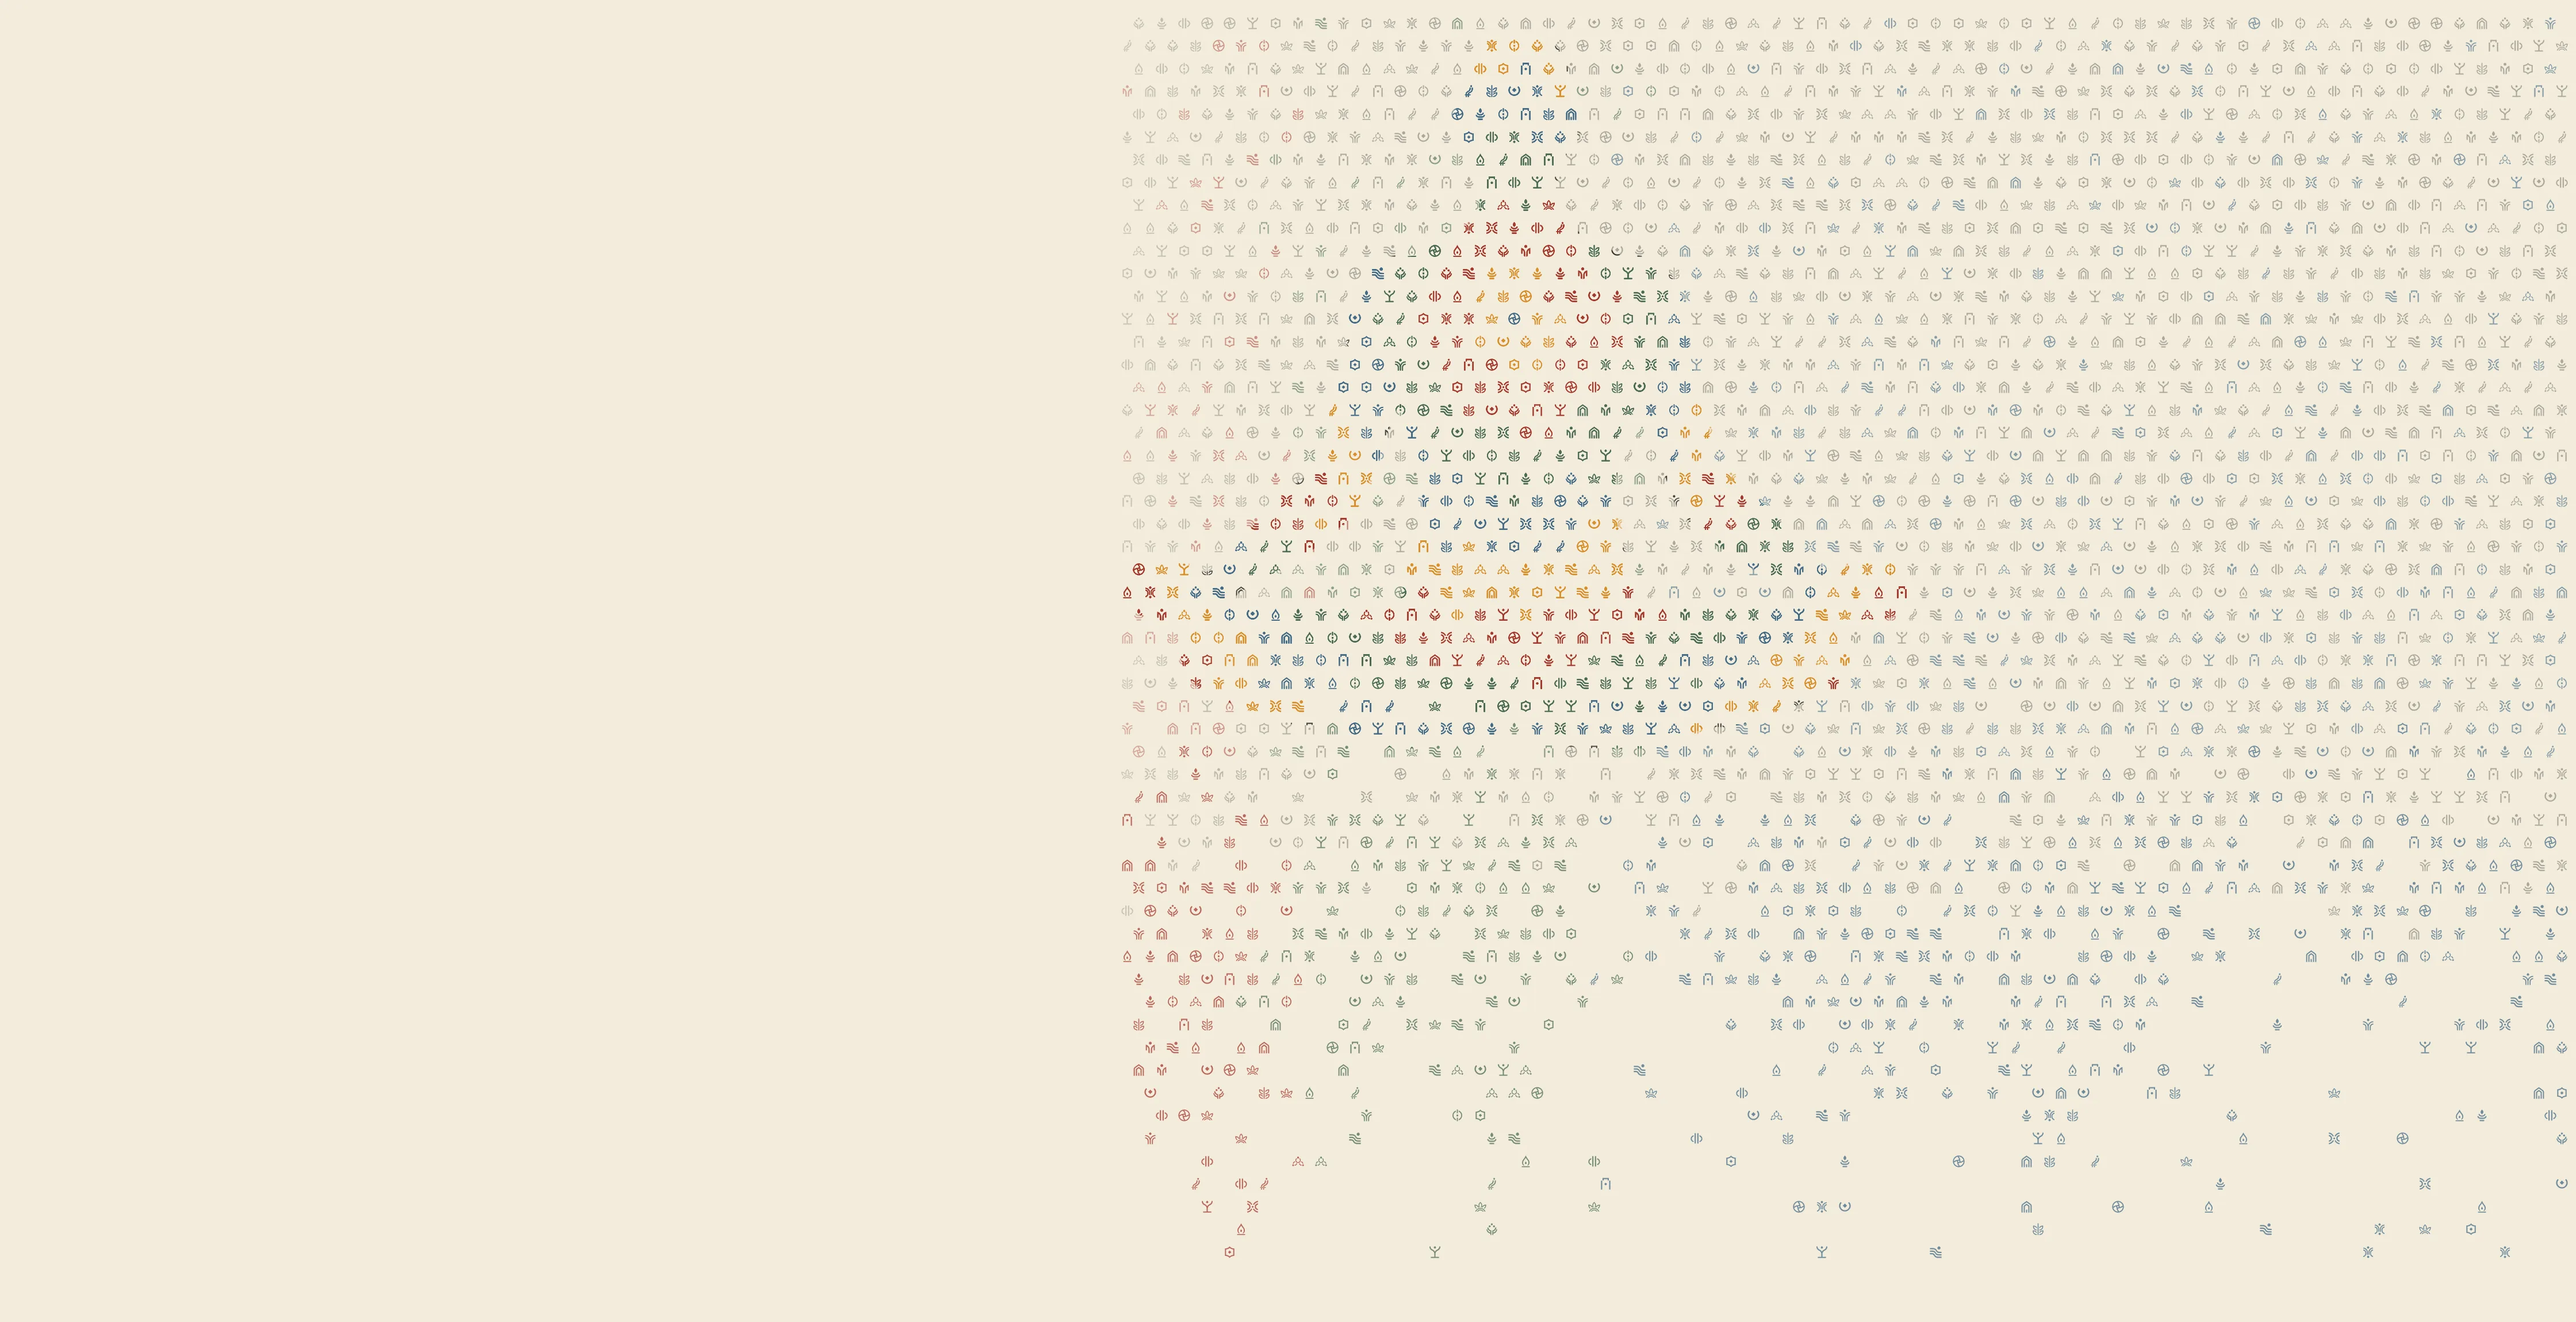
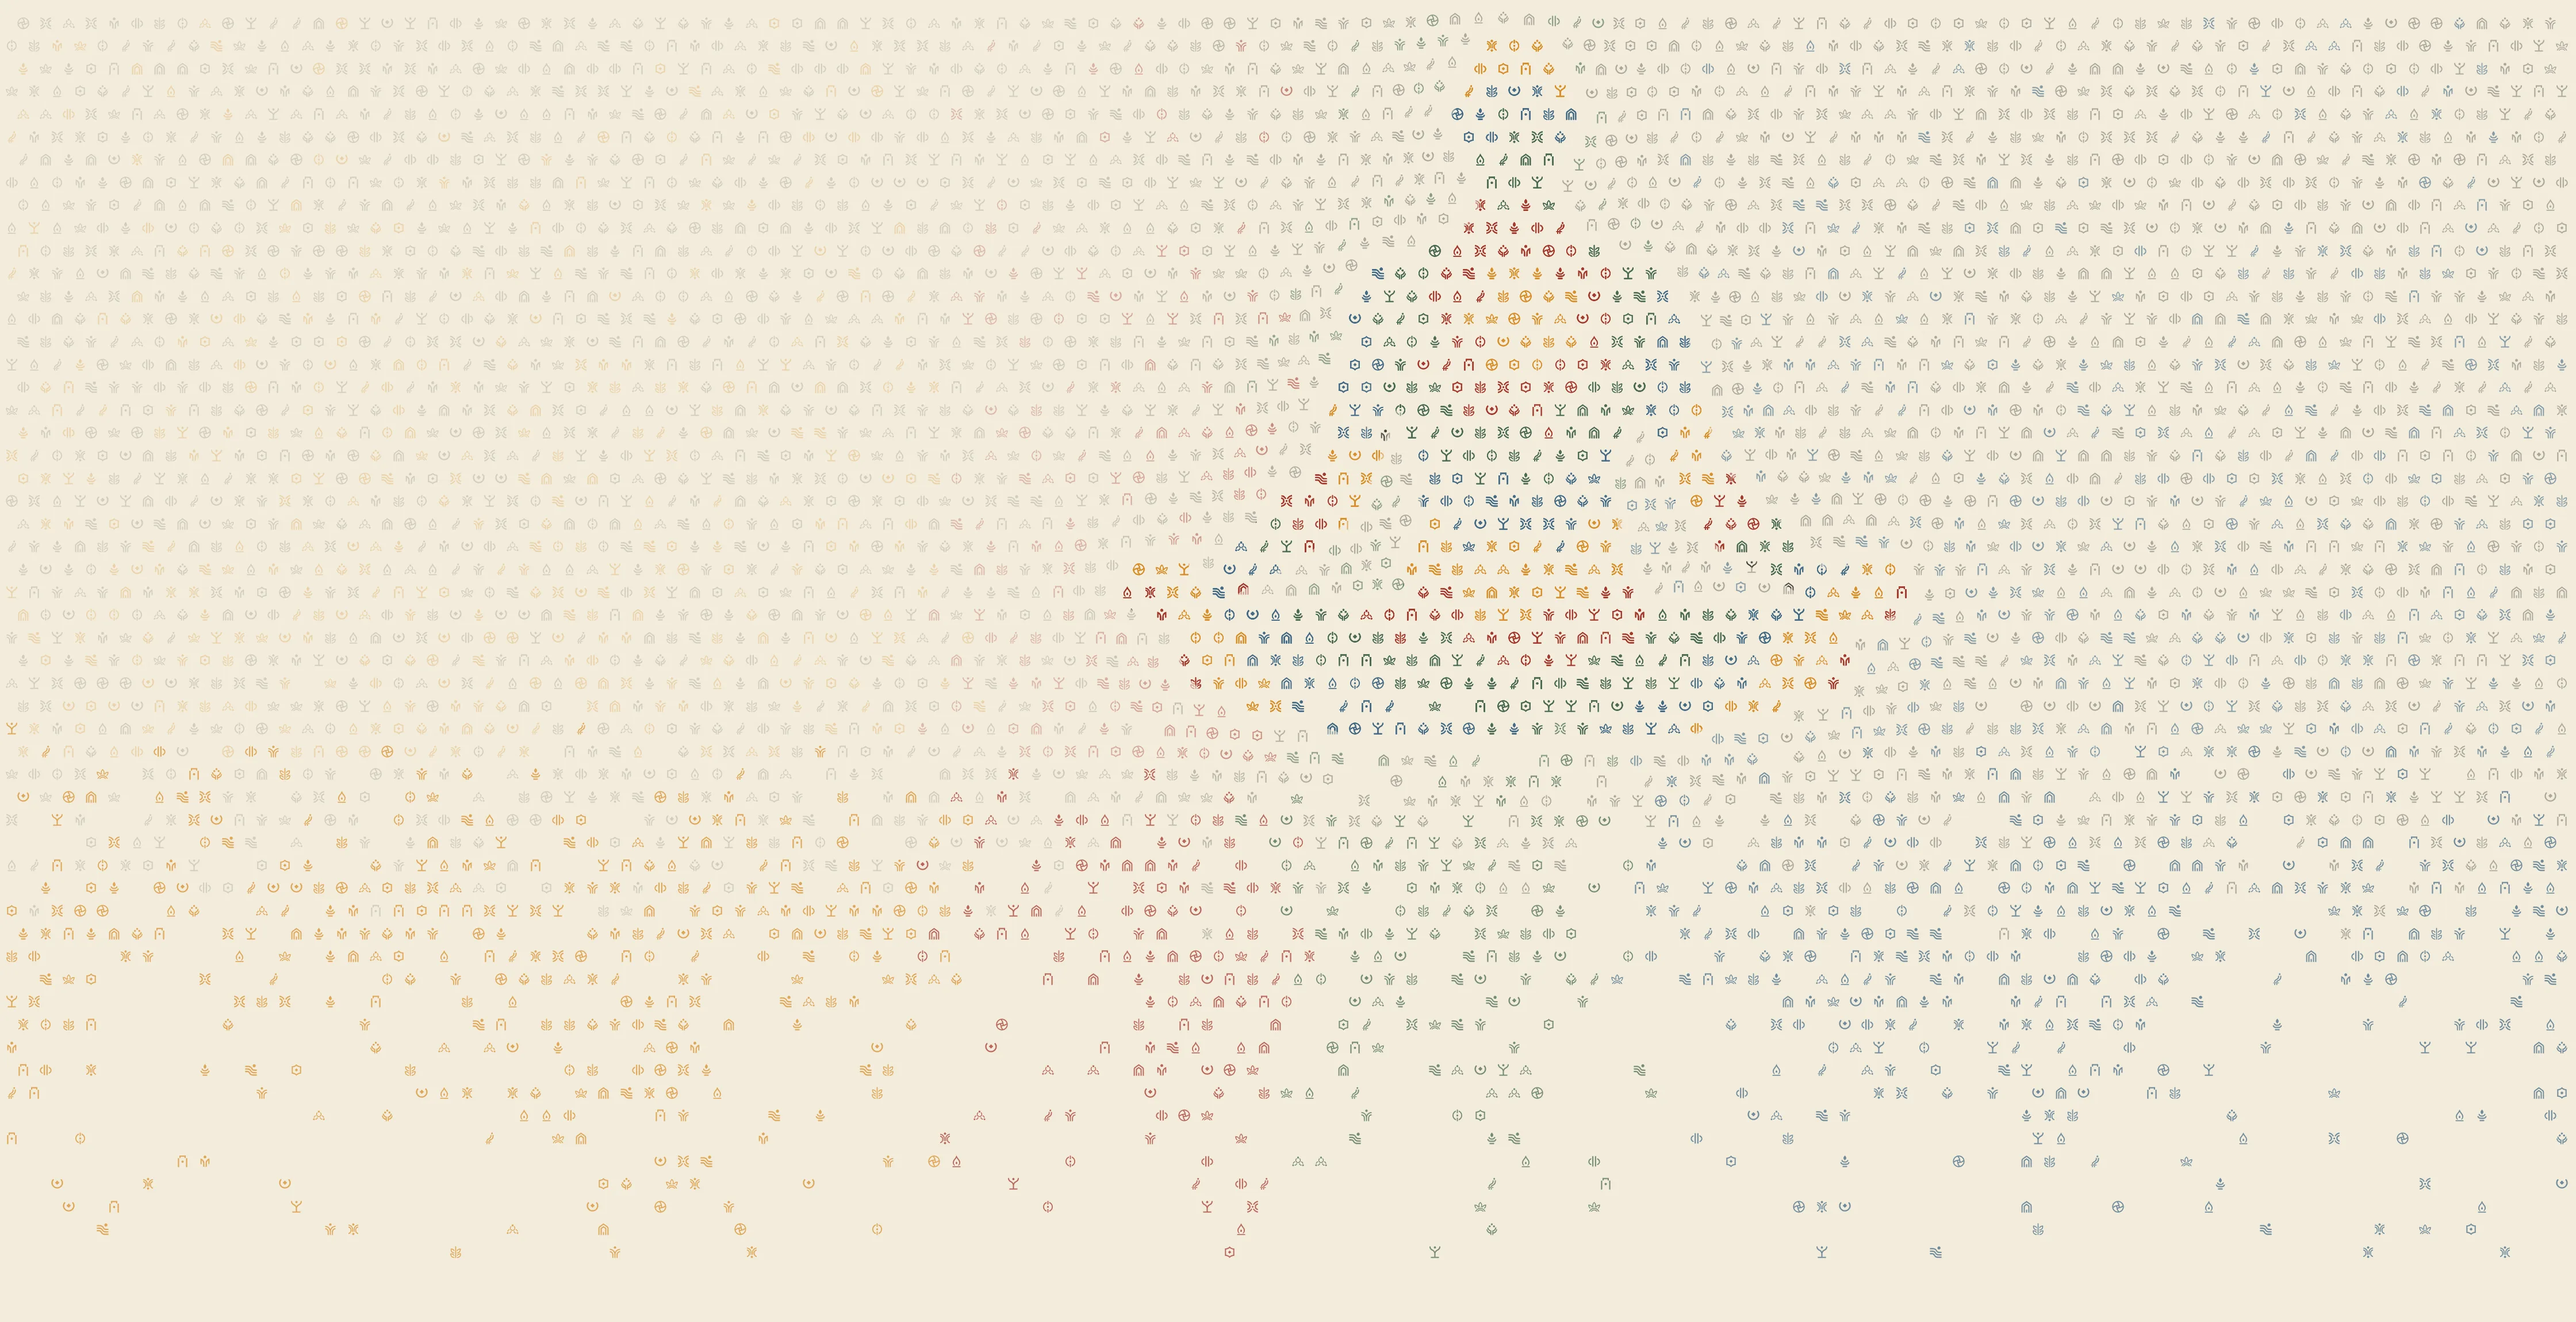
Hero: full glyph field, soft fades around the copy and into the next section, slight warp
Claude-Session: https://claude.ai/code/session_01Faxypstm6H8yAswypDCHBa

diff --git a/app/lanes-home.css b/app/lanes-home.css
@@ -248,3 +248,13 @@
 :root .field-guide .ln-card.ln-card-paid{padding-left:144px;padding-right:44px}
 .field-guide .ln-card-side{position:absolute;top:0;bottom:0;left:44px;right:auto;width:54px;background:url('/brand/home/card-key-column-worn.png') center -40px/54px auto repeat-y;pointer-events:none}
 @media(max-width:900px){:root .field-guide .ln-card.ln-card-paid{padding-left:64px;padding-right:20px}.field-guide .ln-card-side{left:16px;width:30px;background-size:30px auto;background-position:center -22px}}
+
+/* Hero fades (Dat, Nov 15). Desktop only; on phones the field already sits below the copy and fades out.
+   - Copy: a feathered bone panel behind "LIVE IN PRACTICE", the lede and the button, one even blur all round, so the
+     field fades out around the whole block. It is drawn in stage units with the copy, so it fits at every width.
+   - Bottom: the field fades out from just below the figure into the "Realization as a fitness" section. */
+@media(min-width:901px){
+  .field-guide .ln-copy{z-index:2}
+  .field-guide .ln-copy::before{content:"";position:absolute;z-index:-1;top:calc(-44 * var(--u));bottom:calc(-52 * var(--u));left:calc(-400 * var(--u));right:calc(-48 * var(--u));background:var(--bone);filter:blur(calc(34 * var(--u)));pointer-events:none}
+  .field-guide .ln-art .ln-field{-webkit-mask-image:linear-gradient(#000 60%,transparent 97%);mask-image:linear-gradient(#000 60%,transparent 97%)}
+}

diff --git a/scripts/hero-glyph-field.py b/scripts/hero-glyph-field.py
@@ -35,9 +35,11 @@ RAIN_ALPHA=0.75           # opacity of the falling coloured glyphs
 RING=41                   # width of each colour ring around the heart
 CROWN=96                  # no clay within this many units of the top of the head
 SEED=7
-# Clear side (Nov 15): no field glyphs left of a straight vertical line through the figure's leftmost point (the tip
-# of its knee, x 495), from the top of the field to the bottom. (x0, y0, x1, y1 in the image's stage units.)
-COPY_CLEAR=(-480,0,495,HU)
+# Warp (Nov 15): the field bends slightly around the figure. Only field glyphs move; the figure's own glyphs stay put,
+# so its shape is exact. Near the outline they are pushed outward with a small twist.
+WARP_SIGMA=34             # how far from the outline the bend reaches (units)
+WARP=8                    # largest push (units)
+WARP_TWIST=0.5            # share of the push turned along the outline
 # ────────────────────────────────────────────────────────────────────────────────────────────────────────────
 
 DX=-XL
@@ -57,6 +59,13 @@ Tn=nd.gaussian_filter(Tf,4*S)/np.maximum(nd.gaussian_filter(W8,4*S),1e-3)
 Bf=0.22+0.78*np.clip(Tn,0,1)**0.9; d_in=nd.distance_transform_edt(Mf>0.5)/S; Bf=np.clip(Bf+0.2*np.exp(-(d_in/4.0)**2),0,1)
 gd=os.path.join(IN,'glyphs'); files=sorted(f for f in os.listdir(gd) if f.endswith('.svg'))
 n=P(GS); gl=[np.asarray(Image.open(io.BytesIO(cairosvg.svg2png(url=f'{gd}/{f}',output_width=n,output_height=n))).convert('RGBA'),np.float32)[...,3]/255 for f in files]
+# Warp field: the blurred figure mask's gradient points inward; outside the figure, glyphs move the other way.
+Dm=nd.gaussian_filter(M,WARP_SIGMA*S); gy,gx=np.gradient(Dm); gmax=np.hypot(gx,gy).max() or 1
+def warp(x,y):
+    i=min(max(P(y),0),H_-1); k=min(max(P(x+DX),0),W_-1)
+    if M[i,k]>0.5: return 0.0,0.0
+    ox,oy=-gx[i,k]/gmax,-gy[i,k]/gmax
+    return WARP*(ox-WARP_TWIST*oy),WARP*(oy+WARP_TWIST*ox)
 rng=np.random.default_rng(SEED); np.random.seed(3)
 COL={'marigold':(217,143,43),'clay':(166,58,46),'sage':(76,107,84),'blue':(69,107,134)}; PC=['marigold','clay','sage','blue']
 def ss(t): t=np.clip(t,0,1); return t*t*(3-2*t)
@@ -67,15 +76,14 @@ HX,HY=CX,TOP+0.40*HT
 for j,y in enumerate(np.arange(-SP,HU+SP,SP)):
     for x in np.arange(XL-SP,XL+WU+SP,SP)+(SP/2 if j%2 else 0):
         g=gl[rng.integers(20)]; u=rng.random(); col=None
-        x0c,y0c,x1c,y1c=COPY_CLEAR
-        if x0c<=x<=x1c and y0c<=y<=y1c and M[min(P(y),H_-1),min(max(P(x+DX),0),W_-1)]<=0.5: continue
+        wx,wy=warp(x,y)
         if y>=DTOP:
             t=np.clip((y-DTOP)/(DBOT-DTOP),0,1)
             edge=0.5+0.22*np.sin(x/97+1.3)+0.14*np.sin(x/41+0.4)+0.08*np.sin(x/23+2.1)
             p=np.clip(1-ss((t-edge*0.8)/0.55),0,1)*(1-0.5*t); p=max(p,FLOOR*(1-0.6*t)); p*=1-ss((y-(DBOT-30))/50)
             if u>p: continue
             if np.random.random()<ss((t-0.05)/0.45): col=PC[quarter(x)]
-        X=P(x+DX)-n//2; Y=P(y)-n//2
+        X=P(x+wx+DX)-n//2; Y=P(y+wy)-n//2
         if X<0 or Y<0 or X+n>W_ or Y+n>H_: continue
         if col:
             Cg[Y:Y+n,X:X+n]+=g[...,None]*np.array(COL[col],np.float32); Cw[Y:Y+n,X:X+n]=np.maximum(Cw[Y:Y+n,X:X+n],g); continue

diff --git a/docs/design/README.md b/docs/design/README.md
@@ -38,9 +38,11 @@ The older references (two bands, U-fold) are kept for history:
     and blue in rings from the heart, with no clay at the crown. The field is lighter behind the copy.
   - From y 578 the field disperses irregularly, never quite emptying, and ends at 1100 above the
     phase boxes (from 1110; the title sits at 960). As the glyphs fall they take the colour of the phase box below them.
-  - Clear side (Nov 15): no field glyphs left of one straight vertical line through the figure's leftmost point
-    (the knee tip, image x 495), top to bottom (`COPY_CLEAR`). On desktop the head sits under the gap between
-    Resources and Media. Known: at 1024 and 1920 wide the line falls 10–20 px inside the end of "PRACTICE".
+  - Fades and warp (Nov 15): the full field is back (no cut). On desktop a feathered bone panel behind the copy
+    (`.ln-copy::before` in `app/lanes-home.css`) fades the field out evenly around "LIVE IN PRACTICE", the lede and the
+    button. It is drawn with the copy, so it fits at every width. A mask fades the field's bottom into the next
+    section. In the script, field glyphs (never the figure's own) bend slightly around the figure: `WARP`, `WARP_SIGMA`,
+    `WARP_TWIST`.
   - The figure outline was traced from a reference image (Dat, Nov 12); confirm its licence before launch.
   - Regenerate it with `python3 scripts/hero-glyph-field.py` (needs numpy, scipy, Pillow, cairosvg). The
     settings are at the top of the script; its inputs (glyphs, figure silhouette and shading) are in

diff --git a/docs/edit-ledger.md b/docs/edit-ledger.md
@@ -671,3 +671,14 @@ commits. Hashes below were backfilled for commits made before the ledger existed
 - Known: the cut moves with the figure while the headline scales differently. It sits 60 to 190 px clear of "PRACTICE" from 1180 to 1440 px wide, but falls 19 px inside it at 1024 and 10 px inside at 1920.
 - Provisional: a look for Dat to review.
 - Why: Dat, Nov 15.
+
+### 2026-11-15 · Hero: full field back, fades around the copy and into the next section, slight warp (`home-04-lanes` only)
+- The glyph field is whole again. The straight cut at the knee is gone, and the head stays under the Resources / Media gap.
+- The field fades out around the block of "LIVE IN PRACTICE", the lede and the button.
+  - It is one feathered bone panel behind the copy, with an even soft edge (about 34 units of blur) all round.
+  - It is drawn in CSS with the copy, so it stays fitted to the text at every width.
+- The bottom of the field fades out from just below the figure into the "Realization as a fitness" section (a CSS mask).
+- Slight warp: background glyphs near the figure's outline are pushed outward by up to 8 units, with a small twist, so the field bends around the body. The figure's own glyphs don't move, so its shape is unchanged. Settings `WARP`, `WARP_SIGMA` and `WARP_TWIST` in `scripts/hero-glyph-field.py`.
+- Desktop only for the two fades; on phones the field already sits below the copy.
+- Provisional: a look for Dat to review.
+- Why: Dat, Nov 15.
